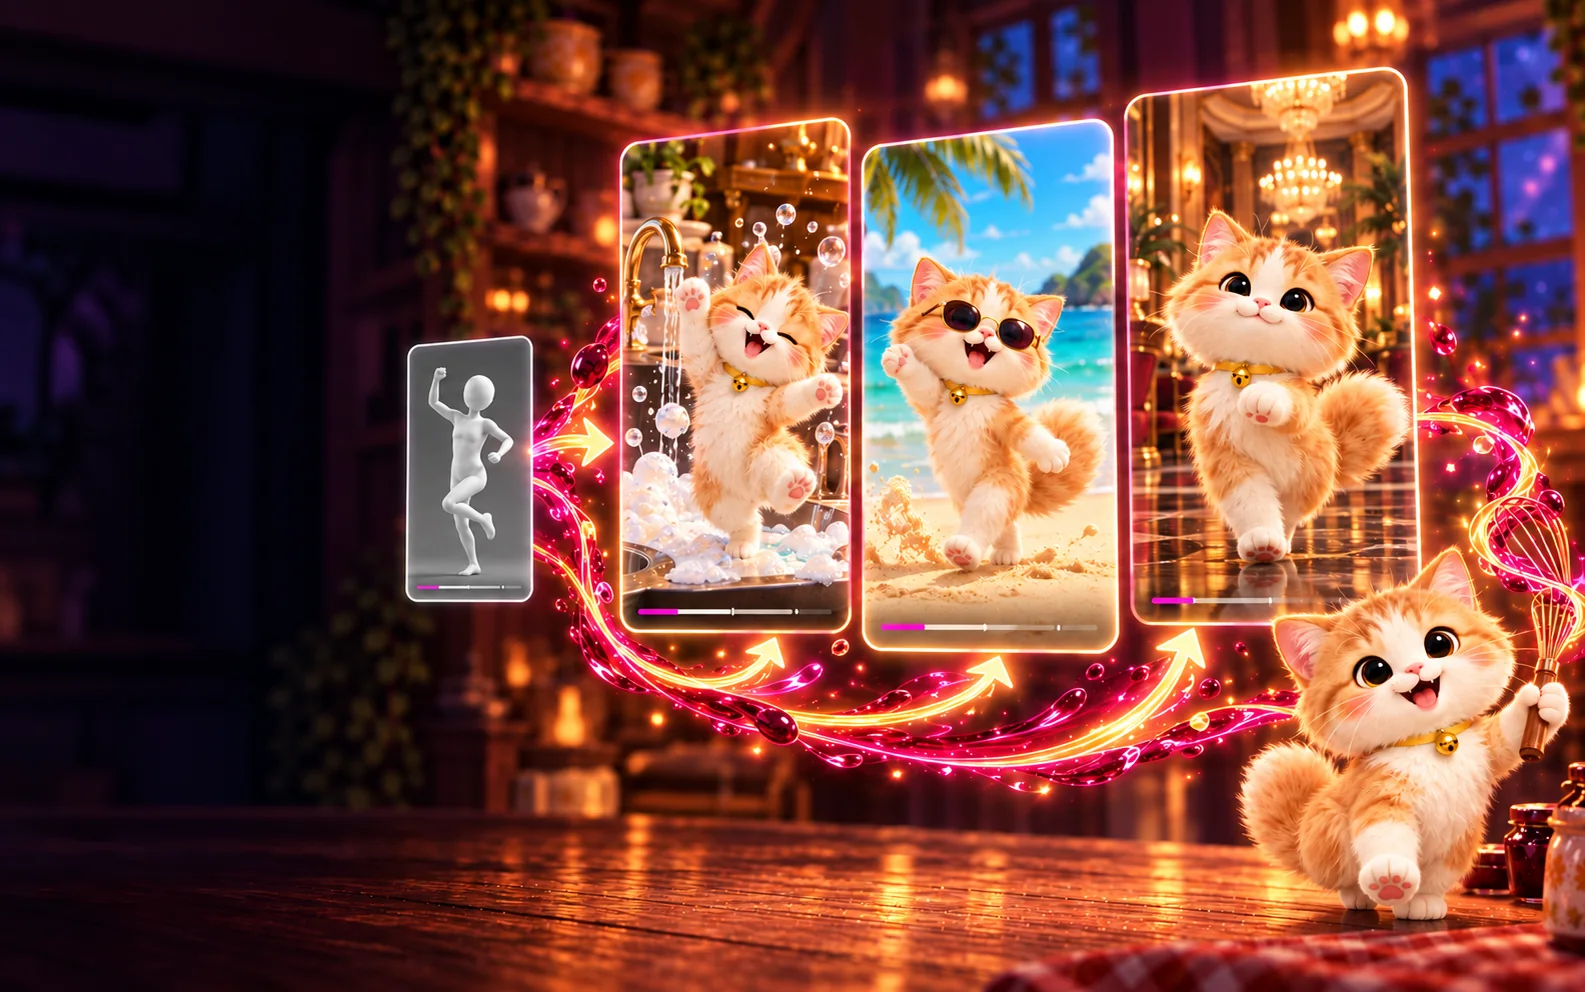
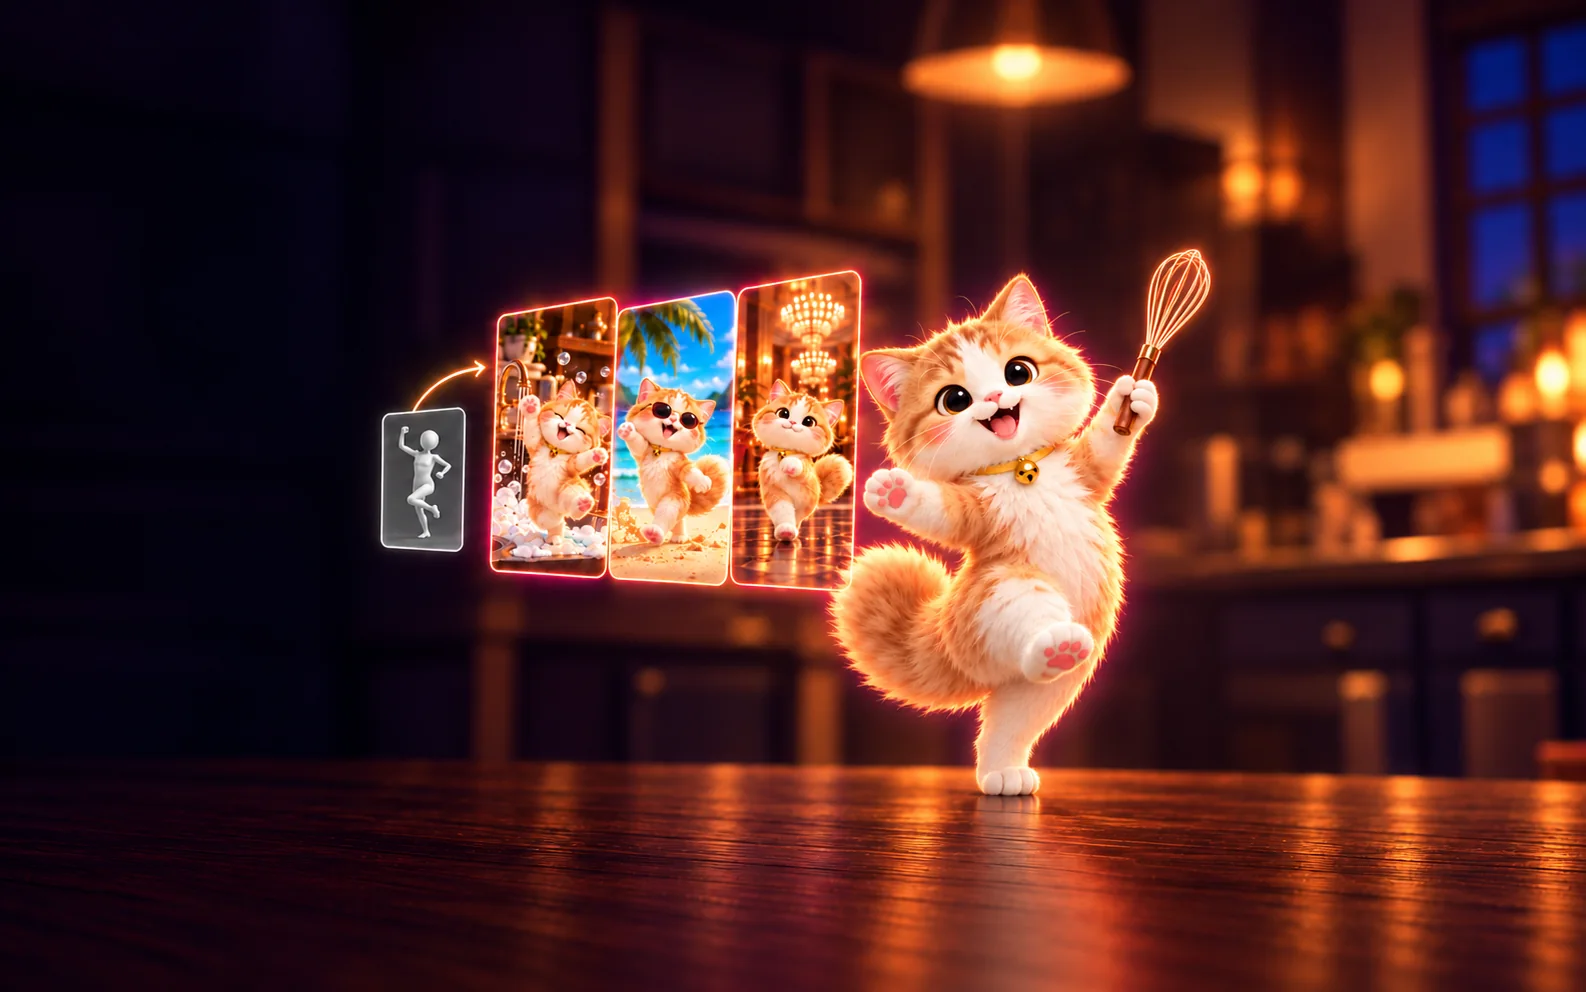
Covers: each product's star is the hero, its results beside it
The five covers re-composed from the last ones with GPT Image: the star
large, centre-right, its face in the middle of the frame where every
crop keeps it, two or three of the product's results beside it, and a
calm background. The home frames them on the star.

diff --git a/web/css/welcome.css b/web/css/welcome.css
@@ -10,7 +10,7 @@
 .welcome-slide { position: absolute; inset: 0; display: grid; grid-template-columns: minmax(0, 42%) minmax(0, 1fr); opacity: 0; visibility: hidden; transition: opacity .6s var(--ease-out), visibility 0s .6s; }
 .welcome-slide.is-on { opacity: 1; visibility: visible; transition: opacity .6s var(--ease-out); }
 /* the art fills the right and fades into the dark the words stand on */
-.welcome-slide-art { position: absolute; top: 0; right: 0; width: 70%; height: 100%; object-fit: cover; object-position: center 45%; -webkit-mask-image: linear-gradient(to right, transparent, #000 40%); mask-image: linear-gradient(to right, transparent, #000 40%); transform: scale(1.04); transition: transform 7s linear; }
+.welcome-slide-art { position: absolute; top: 0; right: 0; width: 70%; height: 100%; object-fit: cover; object-position: 62% 45%; -webkit-mask-image: linear-gradient(to right, transparent, #000 40%); mask-image: linear-gradient(to right, transparent, #000 40%); transform: scale(1.04); transition: transform 7s linear; }
 .welcome-slide.is-on .welcome-slide-art { transform: scale(1); }
 .welcome-slide-text { position: relative; z-index: 1; display: flex; flex-direction: column; justify-content: center; align-items: flex-start; gap: 1.25rem; padding: 0 0 2.5rem clamp(1.5rem, 4vw, 4.5rem); }
 .welcome-eyebrow { display: inline-flex; align-items: center; gap: .625rem; color: var(--accent); font: 600 var(--fs-small)/1 var(--font-mono); letter-spacing: .08em; text-transform: uppercase; }
@@ -32,7 +32,8 @@
 .welcome-menu { display: grid; grid-template-columns: minmax(0, 1.15fr) minmax(0, 1fr) minmax(0, 1fr); grid-template-rows: repeat(2, minmax(17rem, 21rem)); gap: 1rem; }
 .welcome-card { position: relative; display: block; overflow: hidden; border-radius: calc(1.125rem * var(--corner-k, 1)); background: var(--sunk); color: var(--text); text-decoration: none; isolation: isolate; }
 .welcome-card.is-kitchen { grid-row: span 2; }
-.welcome-card-art { position: absolute; inset: 0; z-index: -1; width: 100%; height: 100%; object-fit: cover; transition: transform .5s var(--ease-out), filter .3s; }
+/* each cover's star stands centre-right: the crop keeps it in view */
+.welcome-card-art { position: absolute; inset: 0; z-index: -1; width: 100%; height: 100%; object-fit: cover; object-position: 62% 42%; transition: transform .5s var(--ease-out), filter .3s; }
 .welcome-card::after { content: ""; position: absolute; inset: 0; z-index: -1; background: linear-gradient(to top, rgba(10, 9, 12, .92), rgba(10, 9, 12, .55) 38%, transparent 68%); }
 .welcome-card:hover .welcome-card-art { transform: scale(1.04); }
 .welcome-card:focus-visible { outline: var(--focus-w, 2px) solid var(--accent); outline-offset: 3px; }
